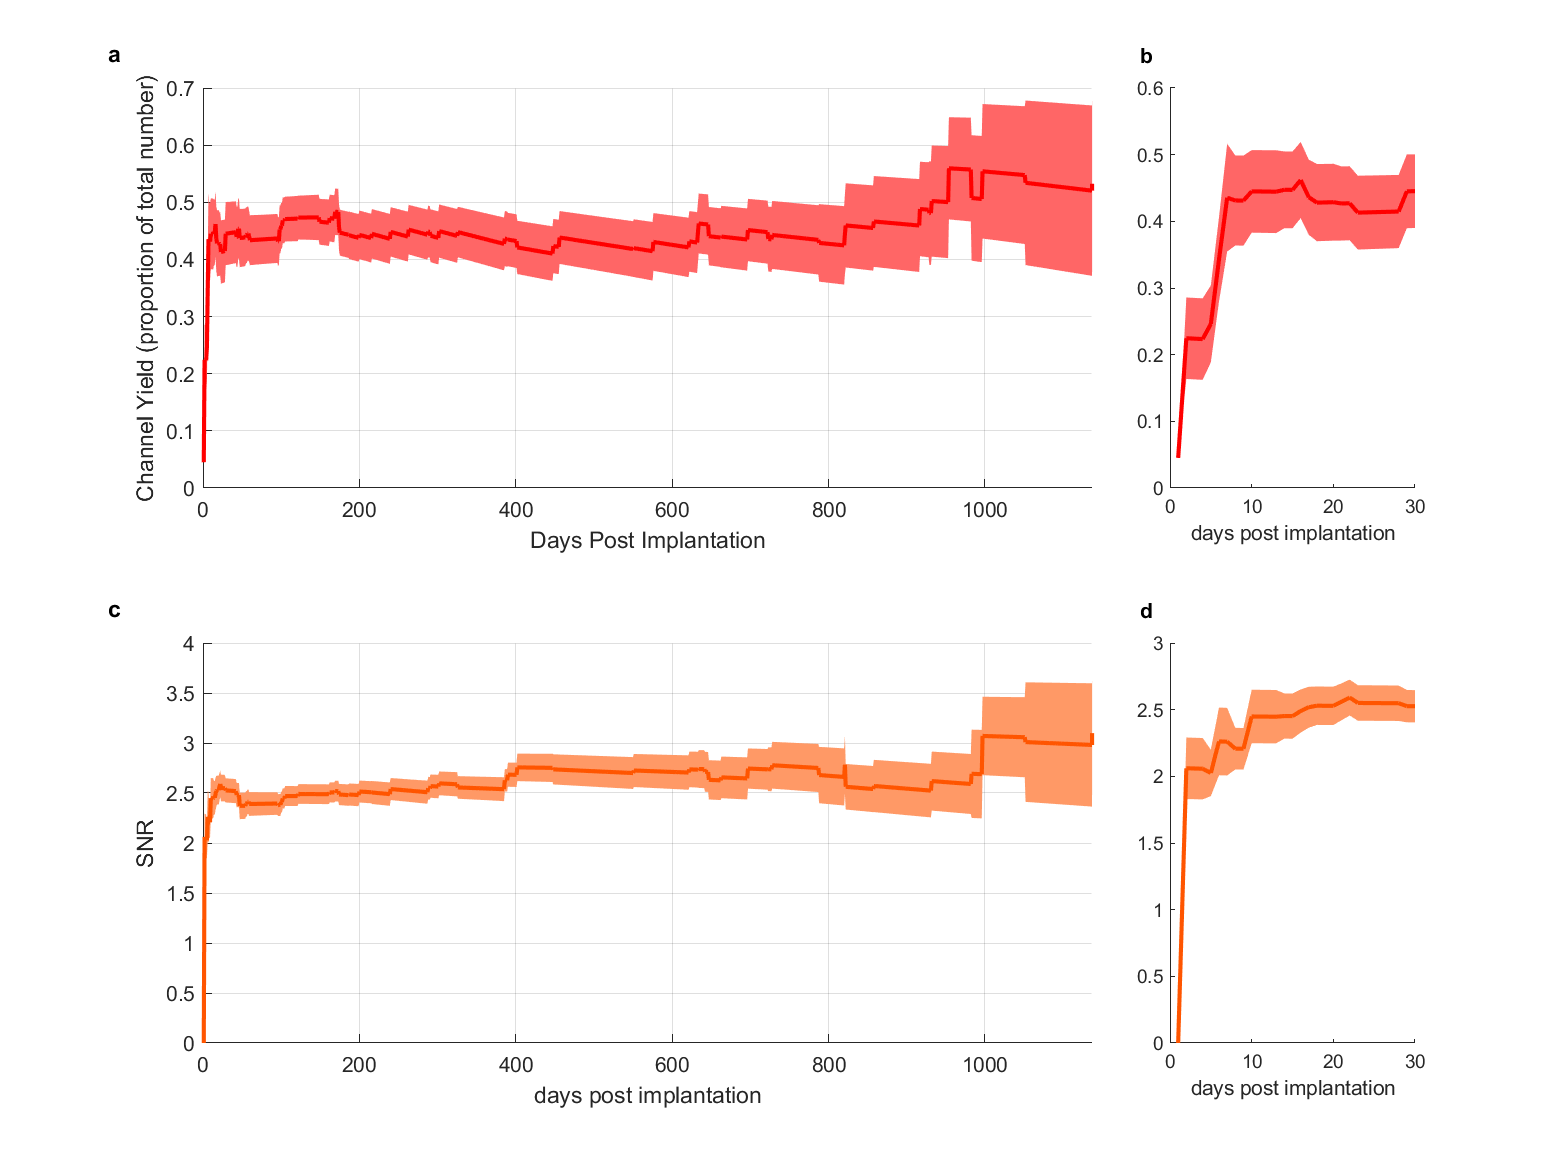
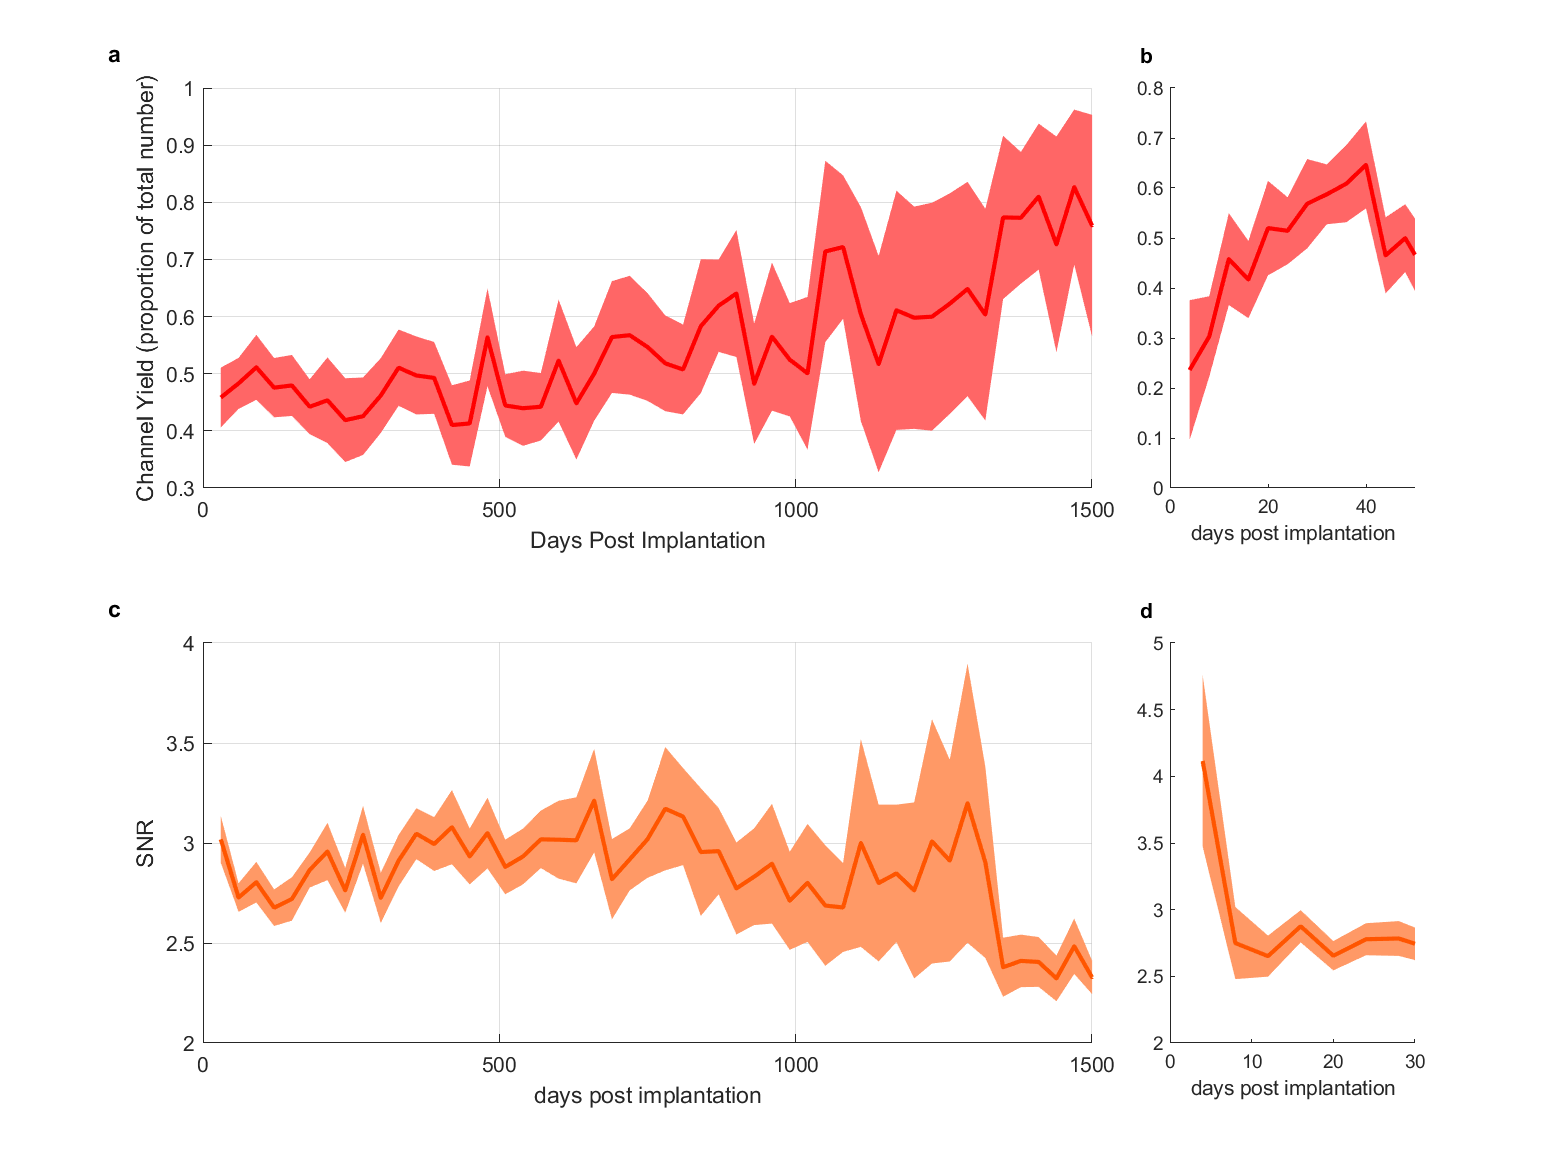
revamp figure four with correct analysis

diff --git a/code/paper_figures_code/yield_and_SNR_over_time.m b/code/paper_figures_code/yield_and_SNR_over_time.m
@@ -3,74 +3,52 @@ function yield_and_SNR_over_time(array_data)
 % percentage) for the array stability project. Includes a subplot
 % highlighting the first 30 days after implant.
 
-%% initializing figure
-figure('name','SNR and Channel Yield over time, all arrays','visible','on','color','w');
-box off
-array_names = unique({array_data.array_name});
-colors = autumn(4);
-set(gcf,'pos',[350,200,1000,750])
 
 %% Figure 2a. Mean (se) number of channels over all arrays versus DPI.
+array_names = unique({array_data.array_name});
 
 % histcounts and average
-iPlotName = 1;
+
+% define bin width in days
+bin_width = 30; %days
+
+% define bins, out to the maximum number of relative days in the dataset
+bins = 0:bin_width:max([array_data.relative_days]);
+averaging_prep = zeros(length(array_names),size(bins,2)-1);
 for iArray = 1:length(array_names)
-%     if contains(array_names{iArray},'P1') || contains(array_names{iArray},'P2')
-%     else
-        
         file_count = 1;
+        good_channels_temp = zeros(size(array_data,2),1);
+        relative_days_temp = zeros(size(array_data,2),1);
         for iFile = 1:size(array_data,2)
             if strcmp(array_data(iFile).array_name,array_names{iArray})
                 good_channels_temp(file_count) = array_data(iFile).num_good_channels_corrected / array_data(iFile).total_num_of_channels;
                 relative_days_temp(file_count) = array_data(iFile).relative_days;
                 file_count = file_count + 1;
             end
-        end
+        end %iFile
         
-        plot_names{iPlotName} = strrep(array_names{iArray},'_',' ');
-        
-        % linear regression of all points for each array separately
-        quad_fit_to_good_channels = polyfit(relative_days_temp,good_channels_temp,3);
-        quad_fit_to_good_channels = ...
-            polyval(quad_fit_to_good_channels,min(relative_days_temp):max(relative_days_temp));
-        
-        if max(quad_fit_to_good_channels)>128 || min(quad_fit_to_good_channels) < 0.2
-            disp('stop, who are you even')
-        else
-            subject_lines{iPlotName,1} = min(relative_days_temp):max(relative_days_temp);
-            subject_lines{iPlotName,2} = quad_fit_to_good_channels;
-        end
-        
-        averaging_prep(iArray,subject_lines{iPlotName,1}) = subject_lines{iPlotName,2};
-        
-        iPlotName = iPlotName + 1;
-        
+        for iBin = 1:(size(bins,2)-1)
+            averaging_prep(iArray,iBin) = nanmean(good_channels_temp((relative_days_temp > bins(iBin)) & (relative_days_temp <= bins(iBin+1))));      
+        end %iBin
+               
         clear good_channels_temp
         clear relative_days_temp
-%     end
-end
+end %iArray
 
-averaging_prep(averaging_prep == 0) = NaN;
-for iColumn = 1:size(averaging_prep,2)
-    averaging_count(iColumn) = sum(~isnan(averaging_prep(:,iColumn)));
-end
+avg_channels = zeros(size(bins,2)-1,1);
+std_channels = zeros(size(bins,2)-1,1);
+std_err_channels = zeros(size(bins,2)-1,1);
+for iBin = 1:(size(bins,2)-1)   
+    avg_channels(iBin) = sum(averaging_prep(:,iBin),'omitnan')/sum(averaging_prep(:,iBin) > 0);
+    std_channels(iBin) = std(averaging_prep(:,iBin),'omitnan');
+    std_err_channels(iBin) = std_channels(iBin) / sqrt(sum(averaging_prep(:,iBin) > 0));
+end %iBin
 
-% There is a challenge associated with averaging this kind of
-% non-continuous data over time; you can't simply take a mean because there
-% isn't data at every time point. not only that, but there are different
-% numbers of data points at each time point as well. The approach I used
-% here was to calculate a linear regression fit to all of the data points
-% available for each array, bounded by the first and last recording point,
-% giving me a bunch of lines. Then, I averaged across all the lines that
-% were available for each time point. this creates some weird edge effects,
-% and I'm sure I could do it better.
-
-avg_channels = nanmean(averaging_prep,1);
-avg_channels(isnan(avg_channels)) = 0;
-std_channels = nanstd(averaging_prep,1);
-std_channels(isnan(std_channels)) = 0;
-std_err_channels = std_channels ./ sqrt(averaging_count);
-std_err_channels(isnan(std_err_channels)) = 0;
+%% initializing figure
+figure('name','SNR and Channel Yield over time, all arrays','visible','off','color','w');
+box off
+colors = autumn(4);
+set(gcf,'pos',[350,200,1000,750])
 
 %main plot
 subplot(2,4,1:3); hold on;
@@ -82,9 +60,9 @@ HSV_color(2) = HSV_color(2) * .6;
 patch_color = hsv2rgb(HSV_color);
 
 % patch() is a great way to create error bars.
-patch([1:length(avg_channels) fliplr(1:length(avg_channels))],[avg_channels+std_err_channels fliplr(avg_channels-std_err_channels)],patch_color,'edgecolor','none')
-plot(avg_channels,'linewidth',2,'Color',colors(1,:));
-xlim([0 1137])
+patch([bins(~isnan(std_err_channels))+bin_width fliplr(bins(~isnan(std_err_channels))+bin_width)],[(avg_channels(~isnan(std_err_channels))+std_err_channels(~isnan(std_err_channels)))' fliplr((avg_channels(~isnan(std_err_channels))-std_err_channels(~isnan(std_err_channels)))')],patch_color,'edgecolor','none')
+plot(bins(2:end),avg_channels,'linewidth',2,'Color',colors(1,:));
+xlim([0 1500])
 
 
 box off
@@ -93,13 +71,49 @@ xlabel('Days Post Implantation');
 ylabel('Channel Yield (proportion of total number)');
 title('a','units','normalized', 'Position', [-0.1,1.05,1]);
 
+%% making inset with different bin size to show increase post-implant
+
+% define bin width in days
+bin_width = 4; %days
+
+% define bins, out to the maximum number of relative days in the dataset
+bins = 0:bin_width:max([array_data.relative_days]);
+averaging_prep = zeros(length(array_names),size(bins,2)-1);
+for iArray = 1:length(array_names)
+        file_count = 1;
+        good_channels_temp = zeros(size(array_data,2),1);
+        relative_days_temp = zeros(size(array_data,2),1);
+        for iFile = 1:size(array_data,2)
+            if strcmp(array_data(iFile).array_name,array_names{iArray})
+                good_channels_temp(file_count) = array_data(iFile).num_good_channels_corrected / array_data(iFile).total_num_of_channels;
+                relative_days_temp(file_count) = array_data(iFile).relative_days;
+                file_count = file_count + 1;
+            end
+        end %iFile
+        
+        for iBin = 1:(size(bins,2)-1)
+            averaging_prep(iArray,iBin) = nanmean(good_channels_temp((relative_days_temp > bins(iBin)) & (relative_days_temp <= bins(iBin+1))));      
+        end %iBin
+               
+        clear good_channels_temp
+        clear relative_days_temp
+end %iArray
+
+avg_channels = zeros(size(bins,2)-1,1);
+std_channels = zeros(size(bins,2)-1,1);
+std_err_channels = zeros(size(bins,2)-1,1);
+for iBin = 1:(size(bins,2)-1)   
+    avg_channels(iBin) = sum(averaging_prep(:,iBin),'omitnan')/sum(averaging_prep(:,iBin) > 0);
+    std_channels(iBin) = std(averaging_prep(:,iBin),'omitnan');
+    std_err_channels(iBin) = std_channels(iBin) / sqrt(sum(averaging_prep(:,iBin) > 0));
+end %iBin
 
 %inset plot
 subplot(2,4,4); hold on;
 
-patch([1:length(avg_channels) fliplr(1:length(avg_channels))],[avg_channels+std_err_channels fliplr(avg_channels-std_err_channels)],patch_color,'edgecolor','none')
-plot(avg_channels,'linewidth',2,'Color',colors(1,:));
-xlim([0 30])
+patch([bins(~isnan(std_err_channels))+bin_width fliplr(bins(~isnan(std_err_channels))+bin_width)],[(avg_channels(~isnan(std_err_channels))+std_err_channels(~isnan(std_err_channels)))' fliplr((avg_channels(~isnan(std_err_channels))-std_err_channels(~isnan(std_err_channels)))')],patch_color,'edgecolor','none')
+plot(bins(2:end),avg_channels,'linewidth',2,'Color',colors(1,:));
+xlim([0 50])
 title('b','units','normalized', 'Position', [-0.1,1.05,1]);
 
 box off
@@ -110,58 +124,40 @@ clear HSV_color
 clear subject_lines
 clear averaging_count
 %% Figure 2b. Mean (se) SNR over all arrays versus DPI.
+% define bin width in days
+bin_width = 30; %days
 
-% I used the same approach as the channel yield for SNR - calculate linear
-% regressions for each array's data, then average all of the fits together.
-% idk maybe it's okay, maybe it's not.
-
-iPlotName = 1;
+% define bins, out to the maximum number of relative days in the dataset
+bins = 0:bin_width:max([array_data.relative_days]);
+averaging_prep = zeros(length(array_names),size(bins,2)-1);
 for iArray = 1:length(array_names)
-%     if contains(array_names{iArray},'P1') || contains(array_names{iArray},'P2')
-%     else
-        
         file_count = 1;
+        SNR_temp = zeros(size(array_data,2),1);
+        relative_days_temp = zeros(size(array_data,2),1);
         for iFile = 1:size(array_data,2)
             if strcmp(array_data(iFile).array_name,array_names{iArray})
-                if ~ischar(array_data(iFile).SNR_all_channels)
-                    SNR_temp(file_count) = array_data(iFile).SNR_all_channels;
-                    relative_days_temp(file_count) = array_data(iFile).relative_days;
-                    file_count = file_count + 1;
-                end
+                SNR_temp(file_count) = array_data(iFile).SNR_good_channels;
+                relative_days_temp(file_count) = array_data(iFile).relative_days;
+                file_count = file_count + 1;
             end
-        end
+        end %iFile
         
-        plot_names{iPlotName} = strrep(array_names{iArray},'_',' ');
-        quad_fit_to_SNR = polyfit(relative_days_temp,SNR_temp,2);
-        quad_fit_to_SNR = ...
-            polyval(quad_fit_to_SNR,min(relative_days_temp):max(relative_days_temp));
-        
-        if max(quad_fit_to_SNR)>128
-            disp('stop, who are you even')
-        else
-            subject_lines{iPlotName,1} = min(relative_days_temp):max(relative_days_temp);
-            subject_lines{iPlotName,2} = quad_fit_to_SNR;
-        end
-        
-        averaging_prep(iArray,subject_lines{iPlotName,1}) = subject_lines{iPlotName,2};
-        
-        iPlotName = iPlotName + 1;
-        
+        for iBin = 1:(size(bins,2)-1)
+            averaging_prep(iArray,iBin) = nanmean(SNR_temp((relative_days_temp > bins(iBin)) & (relative_days_temp <= bins(iBin+1))));      
+        end %iBin
+               
         clear SNR_temp
         clear relative_days_temp
-%     end
-end
+end %iArray
 
-averaging_prep(averaging_prep == 0) = NaN;
-for iColumn = 1:size(averaging_prep,2)
-    averaging_count(iColumn) = sum(~isnan(averaging_prep(:,iColumn)));
-end
-avg_SNR = nanmean(averaging_prep,1);
-avg_SNR(isnan(avg_SNR)) = 0;
-std_SNR = nanstd(averaging_prep,1);
-std_SNR(isnan(std_SNR)) = 0;
-std_err_SNR = std_SNR ./ sqrt(averaging_count);
-std_err_SNR(isnan(std_err_SNR)) = 0;
+avg_SNR = zeros(size(bins,2)-1,1);
+std_SNR = zeros(size(bins,2)-1,1);
+std_err_SNR = zeros(size(bins,2)-1,1);
+for iBin = 1:(size(bins,2)-1)   
+    avg_SNR(iBin) = sum(averaging_prep(:,iBin),'omitnan')/sum(averaging_prep(:,iBin) > 0);
+    std_SNR(iBin) = std(averaging_prep(:,iBin),'omitnan');
+    std_err_SNR(iBin) = std_SNR(iBin) / sqrt(sum(averaging_prep(:,iBin) > 0));
+end %iBin
 
 subplot(2,4,5:7); hold on;
 
@@ -169,9 +165,9 @@ HSV_color = rgb2hsv(colors(2,:));
 HSV_color(2) = HSV_color(2) * .6;
 patch_color = hsv2rgb(HSV_color);
 
-patch([1:length(avg_SNR) fliplr(1:length(avg_SNR))],[avg_SNR-std_err_SNR fliplr(avg_SNR+std_err_SNR)],patch_color,'edgecolor','none')
-plot(avg_SNR,'linewidth',2,'Color',colors(2,:));
-xlim([0 1137])
+patch([bins(~isnan(std_err_SNR))+bin_width fliplr(bins(~isnan(std_err_SNR))+bin_width)],[(avg_SNR(~isnan(std_err_SNR))+std_err_SNR(~isnan(std_err_SNR)))' fliplr((avg_SNR(~isnan(std_err_SNR))-std_err_SNR(~isnan(std_err_SNR)))')],patch_color,'edgecolor','none')
+plot(bins(2:end),avg_SNR,'linewidth',2,'Color',colors(2,:));
+xlim([0 1500])
 
 box off
 grid on
@@ -179,12 +175,51 @@ xlabel('days post implantation');
 ylabel('SNR');
 title('c','units','normalized', 'Position', [-0.1,1.05,1]);
 
-
-%inset plot
+%%
+%inset plot for SNR
 subplot(2,4,8); hold on;
+% define bin width in days
+bin_width = 4; %days
 
-patch([1:length(avg_SNR) fliplr(1:length(avg_SNR))],[avg_SNR-std_err_SNR fliplr(avg_SNR+std_err_SNR)],patch_color,'edgecolor','none')
-plot(avg_SNR,'linewidth',2,'Color',colors(2,:));
+% define bins, out to the maximum number of relative days in the dataset
+bins = 0:bin_width:max([array_data.relative_days]);
+averaging_prep = zeros(length(array_names),size(bins,2)-1);
+for iArray = 1:length(array_names)
+        file_count = 1;
+        SNR_temp = zeros(size(array_data,2),1);
+        relative_days_temp = zeros(size(array_data,2),1);
+        for iFile = 1:size(array_data,2)
+            if strcmp(array_data(iFile).array_name,array_names{iArray})
+                SNR_temp(file_count) = array_data(iFile).SNR_good_channels;
+                relative_days_temp(file_count) = array_data(iFile).relative_days;
+                file_count = file_count + 1;
+            end
+        end %iFile
+        
+        for iBin = 1:(size(bins,2)-1)
+            averaging_prep(iArray,iBin) = nanmean(SNR_temp((relative_days_temp > bins(iBin)) & (relative_days_temp <= bins(iBin+1))));      
+        end %iBin
+               
+        clear SNR_temp
+        clear relative_days_temp
+end %iArray
+
+avg_SNR = zeros(size(bins,2)-1,1);
+std_SNR = zeros(size(bins,2)-1,1);
+std_err_SNR = zeros(size(bins,2)-1,1);
+for iBin = 1:(size(bins,2)-1)   
+    avg_SNR(iBin) = sum(averaging_prep(:,iBin),'omitnan')/sum(averaging_prep(:,iBin) > 0);
+    std_SNR(iBin) = std(averaging_prep(:,iBin),'omitnan');
+    std_err_SNR(iBin) = std_SNR(iBin) / sqrt(sum(averaging_prep(:,iBin) > 0));
+end %iBin
+
+
+HSV_color = rgb2hsv(colors(2,:));
+HSV_color(2) = HSV_color(2) * .6;
+patch_color = hsv2rgb(HSV_color);
+
+patch([bins(~isnan(std_err_SNR))+bin_width fliplr(bins(~isnan(std_err_SNR))+bin_width)],[(avg_SNR(~isnan(std_err_SNR))+std_err_SNR(~isnan(std_err_SNR)))' fliplr((avg_SNR(~isnan(std_err_SNR))-std_err_SNR(~isnan(std_err_SNR)))')],patch_color,'edgecolor','none')
+plot(bins(2:end),avg_SNR,'linewidth',2,'Color',colors(2,:));
 xlim([0 30])
 title('d','units','normalized', 'Position', [-0.1,1.05,1]);
 
